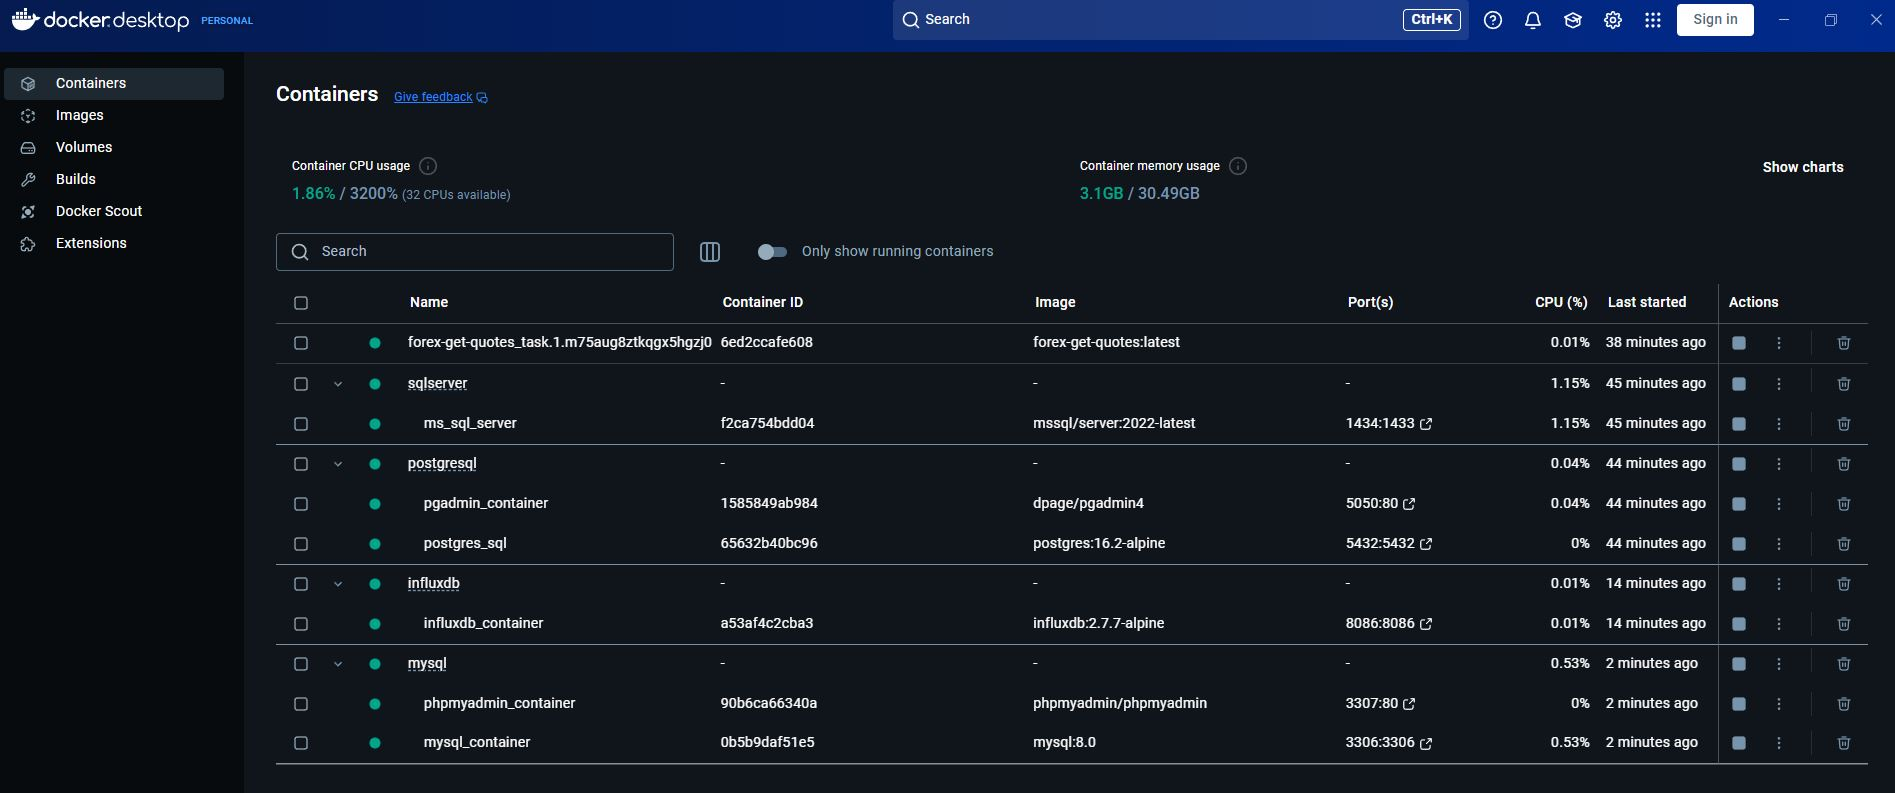
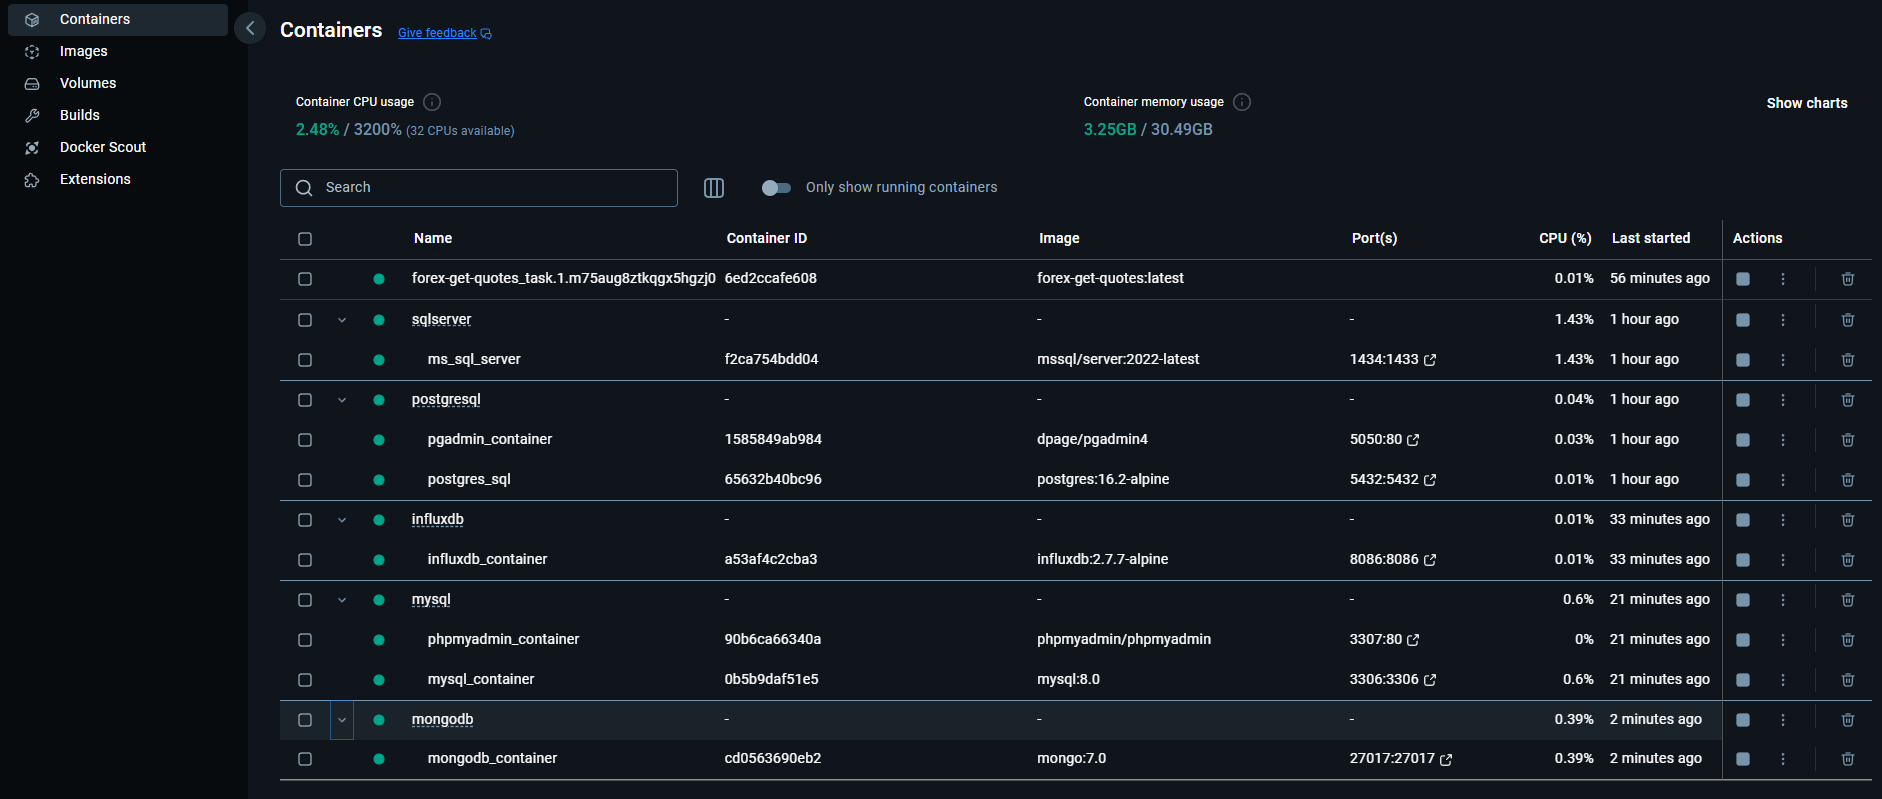
update somethings

diff --git a/README.md b/README.md
@@ -15,12 +15,12 @@
 | SQL Server | RDBMS  | 2025-09-25 |
 | PostgreSQL | RDBMS  | 2025-09-26 |
 | MySQL | RDBMS  | 2025-09-26 |
-| Oracle | RDBMS  | - |
+| Oracle | RDBMS  | 需授權，略過 |
 | InfluxDB | NoSQL  | 2025-09-26 |
-| MongoDB | NoSQL  | - |
+| MongoDB | NoSQL  | 2025-09-26 |
 | Redis | NoSQL  | - |
 | HBase | NoSQL  | - |
-| Neo4j | NoSQL  | - |
+| Neo4j | NoSQL  | 需付費，略過 |
 | DynamoDB | NoSQL  | - |
 | Docker Backup | T-SQL | - |
 | Docker Backup | Docker Volume | - |
